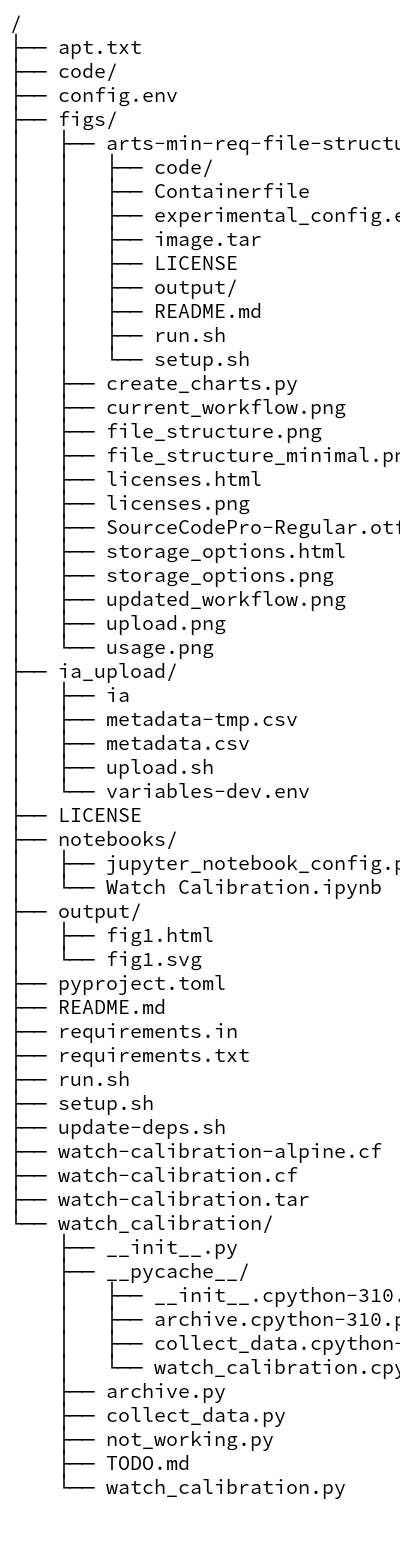
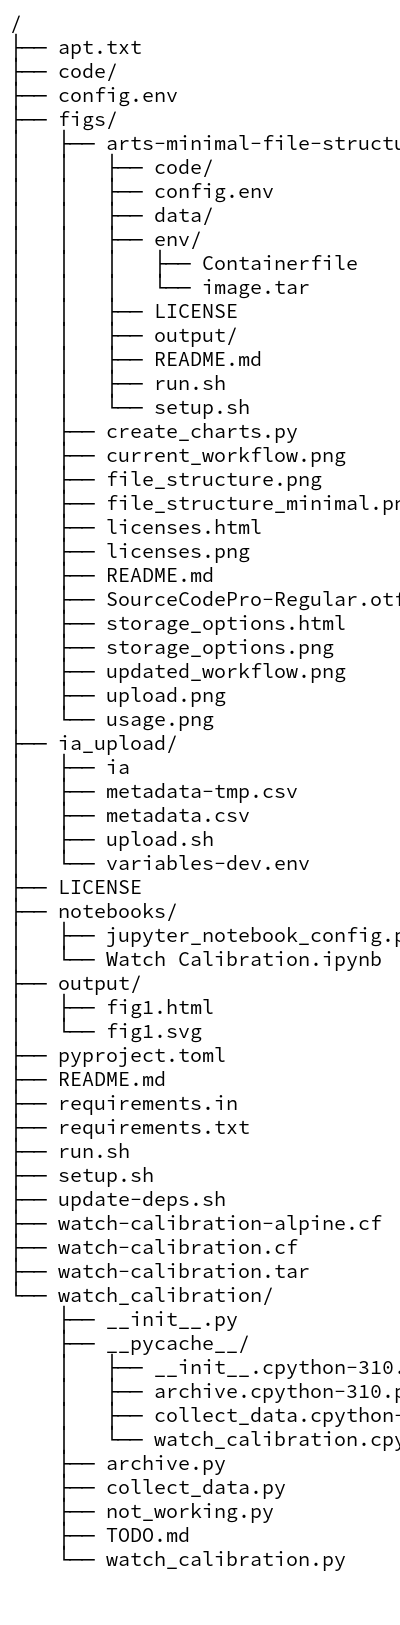
update minimal file structure and add figure README

diff --git a/figs/storage_options.html b/figs/storage_options.html
@@ -1,8 +1,8 @@
 <
-<table border='0' cellborder='1' cellspacing='0' cellpadding='10'>
+<table border='0' cellborder='0' cellspacing='0' cellpadding='10'>
   <tr>
     <td bgcolor="#E0E0E0"><b>Archive</b></td>
-    <td bgcolor="#E0E0E0"><b>3rd party upload?</b></td>
+    <td bgcolor="#E0E0E0"><b>3rd Party Upload</b></td>
     <td bgcolor="#E0E0E0"><b>Immutable</b></td>
     <td bgcolor="#E0E0E0"><b>DOI</b></td>
     <td bgcolor="#E0E0E0"><b>PURL</b></td>
@@ -38,15 +38,15 @@
   </tr>
   <tr>
     <td>DSpace</td>
-    <td>3rd party upload?</td>
-    <td>Immutable</td>
+    <td>X</td>
+    <td>✓</td>
     <td>X</td>
     <td>✓</td>
     <td>✓</td>
-    <td>Reviews</td>
-    <td>Nonprofit</td>
-    <td>Storage Limits</td>
-    <td>Bare repo support</td>
+    <td>Internal</td>
+    <td>✓</td>
+    <td>Varies</td>
+    <td>X</td>
   </tr>
   <tr>
     <td>Zenodo</td>
@@ -63,11 +63,11 @@
   <tr>
     <td>figshare</td>
     <td>✓</td>
-    <td>Immutable</td>
     <td>✓</td>
-    <td>PURL</td>
-    <td>Geographic redundancy</td>
-    <td>Reviews</td>
+    <td>✓</td>
+    <td>✓, DOI</td>
+    <td>✓</td>
+    <td>✓</td>
     <td>X</td>
     <td>20 GB</td>
     <td>X</td>
@@ -75,37 +75,26 @@
   <tr>
     <td>Dryad</td>
     <td>✓</td>
-    <td>Immutable</td>
-    <td>DOI</td>
-    <td>PURL</td>
-    <td>Geographic redundancy</td>
-    <td>Reviews</td>
-    <td>Nonprofit</td>
-    <td>Storage Limits</td>
-    <td>Bare repo support</td>
+    <td>✓</td>
+    <td>✓</td>
+    <td>✓, DOI</td>
+    <td>✓</td>
+    <td>✓</td>
+    <td>✓</td>
+    <td>300 GB; CC0 only</td>
+    <td>X</td>
   </tr>
   <tr>
+    <!-- https://docs.ckan.org/en/2.11/api/index.htm -->
     <td>CKAN</td>
     <td>✓</td>
     <td>X</td>
     <td>✓</td>
     <td>✓</td>
-    <td>Geographic redundancy</td>
-    <td>Reviews</td>
-    <td>✓</td>
-    <td>Storage Limits</td>
-    <td>X</td>
-  </tr>
-  <tr>
-    <td>iRODS</td>
-    <td>✓</td>
+    <td>Implementation-specific</td>
     <td>X</td>
     <td>✓</td>
-    <td>✓</td>
-    <td>Geographic redundancy</td>
-    <td>Reviews</td>
-    <td>✓</td>
-    <td>Storage Limits</td>
+    <td>Varies</td>
     <td>X</td>
   </tr>
   <tr>
@@ -114,7 +103,7 @@
     <td>X</td>
     <td>X</td>
     <td>✓</td>
-    <td>~: two copies? working on it</td>
+    <td>In progress</td>
     <!-- https://help.archive.org/help/archive-it-information/ -->
     <td>X</td>
     <td>✓</td>

diff --git a/figs/licenses.html b/figs/licenses.html
@@ -1,7 +1,7 @@
 <
-<table border='0' cellborder='1' cellspacing='0' cellpadding='10'>
+<table border="0" cellborder="0" cellspacing="0" cellpadding="10">
   <tr><td>
-    <table border="0" columns="*">
+    <table border="0">
       <tr>
         <td width="100" bgcolor="#E0E0E0"><b>Code License</b></td>
         <td width="100" bgcolor="#E0E0E0"><b>Attribution</b></td>
@@ -9,39 +9,33 @@
         <td width="200" bgcolor="#E0E0E0"><b>Notes</b></td>
       </tr>
       <tr>
-        <td>MIT</td>
+        <td>0BSD/MIT-0</td>
         <td>☓</td>
         <td>☓</td>
         <td>permissive</td>
       </tr>
       <tr>
-        <td>Apache</td>
-        <td>☓</td>
-        <td>☓</td>
-        <td>permissive</td>
-      </tr>
-      <tr>
-        <td>BSD</td>
-        <td>☓</td>
+        <td>MIT/BSD/Apache</td>
+        <td>✓</td>
         <td>☓</td>
         <td>permissive</td>
       </tr>
       <tr>
         <td>GPLv3</td>
-        <td>☓</td>
+        <td>✓</td>
         <td>✓</td>
         <td>share-alike</td>r
       </tr>
       <tr>
         <td>Affero GPLv3</td>
-        <td>☓</td>
         <td>✓</td>
-        <td>share-alike</td>
+        <td>✓</td>
+        <td>share-alike for hosted services</td>
       </tr>
     </table>
   </td></tr>
   <tr><td>
-    <table border="0" columns="*">
+    <table border="0">
       <tr>
         <td width="100" bgcolor="#E0E0E0"><b>Data License</b></td>
         <td width="100" bgcolor="#E0E0E0"><b>Attribution</b></td>

diff --git a/figs/create_charts.py b/figs/create_charts.py
@@ -8,8 +8,9 @@ from PIL import Image, ImageFont, ImageDraw
 dir_path = os.path.dirname(os.path.realpath(__file__))
 
 
-def create_table(html_file, out_file):
+def create_table(title, html_file, out_file):
     dot = graphviz.Digraph()
+    dot.attr(label=title, labelloc="t")
     dot.attr("node", shape="none")
     # https://www.graphviz.org/doc/info/shapes.html
     table_html = open(html_file, "r").read()
@@ -19,6 +20,7 @@ def create_table(html_file, out_file):
 # license table
 
 create_table(
+    "Open-source License Comparison",
     f"{dir_path}/licenses.html",
     f"{dir_path}/licenses"
 )
@@ -26,6 +28,7 @@ create_table(
 # storage options table
 
 create_table(
+    "Accessible, Persistent, Trusted Archive Comparison",
     f"{dir_path}/storage_options.html",
     f"{dir_path}/storage_options"
 )
@@ -140,7 +143,7 @@ def create_ascii_file_chart(filepath=".", outfile=f"{dir_path}/file_structure.pn
 
 create_ascii_file_chart()
 create_ascii_file_chart(
-    filepath=f"{dir_path}/arts-min-req-file-structure",
+    filepath=f"{dir_path}/arts-minimal-file-structure",
     outfile=f"{dir_path}/file_structure_minimal.png",
     ignoreList=[]
 )

diff --git a/watch_calibration/TODO.md b/watch_calibration/TODO.md
@@ -1,20 +1,18 @@
 Experiment Steps:
+  - compare hilbert and envelope in analysis
+  - main metric should be standard deviation of ticks
 
-compare hilbert and envelope in analysis. main metric should be standard deviation of ticks
 
-
-Alpine containr
+Alpine container:
  - https://gist.github.com/orenitamar/f29fb15db3b0d13178c1c4dd611adce2?permalink_comment_id=2771812
  - https://stackoverflow.com/questions/65569248/how-to-install-matplotlib-on-alpine
 
-Internet Archive
+Internet Archive:
+  - Come up with a good solution for automating IA access and post here:
+    - https://github.com/jjjake/internetarchive/issues/640
 
-Come up with a good solution for automating IA access and post here:
- - https://github.com/jjjake/internetarchive/issues/640
 
-
-use env file
-
-data collection docker command
-
-Upload repo to overleaf!
+ARTS:
+ - use env file
+ - data collection docker command
+ - document and comment code
